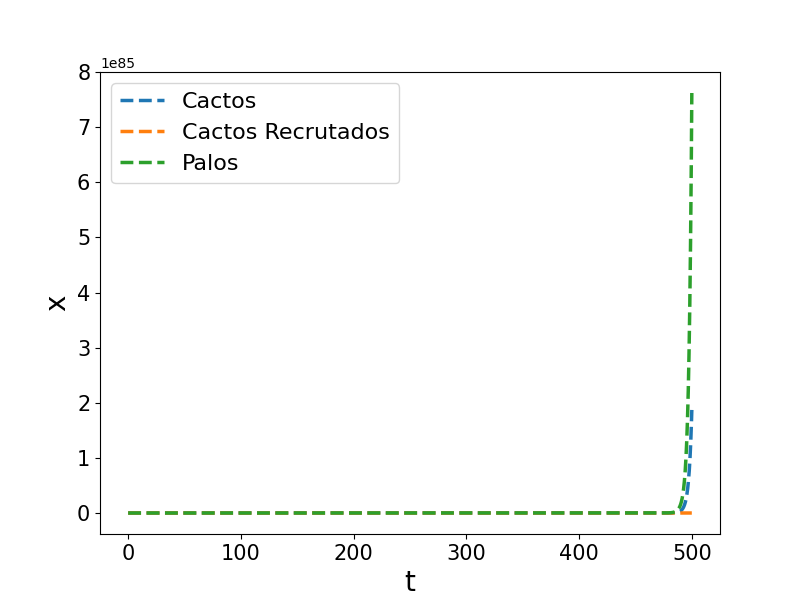
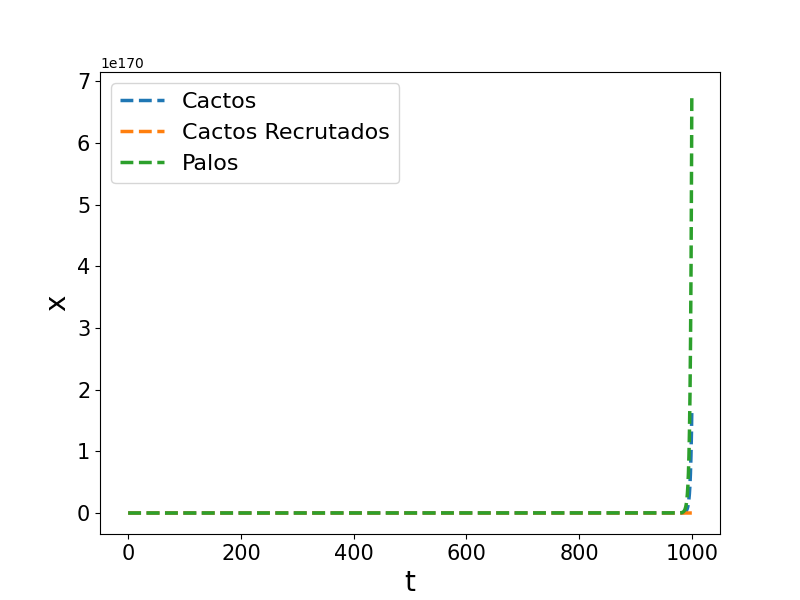
ponto de estabilizacao

diff --git a/modelo_cactos_palos_full_3.py b/modelo_cactos_palos_full_3.py
@@ -1,0 +1,66 @@
+from numpy import *
+from matplotlib.pyplot import *
+from scipy.integrate import odeint
+
+# parâmetros
+taxa_associacao = 0.5 #c
+r_cacto_adulto = 0.009 #r1
+taxa_facilitacao = 3 #f
+taxa_envelhecimento = 0.05 #alpha (escala de 10^-2)
+k_cacto_adulto = 0.003 #k1 )(inversamente proporcional)
+morte_cacto_adulto = 0.01  #d
+r_arbusto = 3 #r2
+k_arbusto = 10 #k2
+taxa_saciedade = 0.0 #h
+taxa_predacao = 0.2 #m
+
+# condições iniciais
+x_inicial_1 = 10
+x_inicial_2 = 1
+x_inicial_3 = 1
+
+# analise de pontos fixos
+
+# passos de tempo
+t = arange(0, 1000, 0.01)
+
+def modele_facilitacao_amensalismo(
+    x, t,
+    taxa_associacao, r_cacto_adulto, 
+    taxa_facilitacao, taxa_envelhecimento, 
+    k_cacto_adulto, morte_cacto_adulto, 
+    r_arbusto, k_arbusto, taxa_saciedade, 
+    taxa_predacao):
+  
+  return array([
+  
+  # Cactos Baby =
+  taxa_associacao * r_cacto_adulto * (taxa_facilitacao * x[2]) * x[1] + (1 - taxa_associacao) * r_cacto_adulto * x[1] - taxa_envelhecimento * x[0],
+  
+  # Cactos Adultos =
+  taxa_envelhecimento * x[0] - k_cacto_adulto * (x[1] ** 2) - morte_cacto_adulto * x[1],
+  
+  
+  # Arbustos =
+  r_arbusto * x[2] * (1 - (x[2] / k_arbusto)) - ((taxa_associacao * x[1] * x[2]) /(1 + taxa_saciedade * x[1])) * taxa_predacao
+  ])
+
+
+
+
+modelo_integrado = odeint(
+    modele_facilitacao_amensalismo, 
+    [x_inicial_1, x_inicial_2, x_inicial_3], 
+    t, 
+    (taxa_associacao, r_cacto_adulto, taxa_facilitacao, taxa_envelhecimento, k_cacto_adulto, morte_cacto_adulto, r_arbusto, k_arbusto, taxa_saciedade, taxa_predacao)
+    )
+
+# plotando a solução
+figure(figsize = (8, 6))
+tick_params(labelsize = 15)
+plot(t, modelo_integrado, linewidth = 2.5, linestyle = "--")
+xlabel("t", fontsize = 20) # definir rótulo do eixo x
+ylabel("x", fontsize = 20) # e do eixo y
+legend(["Cactos Recrutado", "Cactos Adulto", "Palos"], fontsize = 16)
+savefig("full_model_3.png")
+print(modelo_integrado)

diff --git a/modelo_cactos_facilitacao_2.py b/modelo_cactos_facilitacao_2.py
@@ -1,0 +1,54 @@
+# Este é um modelo de facilitação sem conversão e sem predadores.
+
+from numpy import *
+from matplotlib.pyplot import *
+from scipy.integrate import odeint
+
+# parâmetros
+r1 = 0.2
+r2 = 0.5
+k1 = 10
+k2 = 12
+x_inicial_1 = 10
+x_inicial_2 = 10
+x_inicial_3 = 10
+x_inicial_4 = 10
+nascimento = 0.2
+mortes_infantis = 0.1
+a = 10
+
+
+# passos de tempo
+t = arange(0, 100, 0.01)
+
+
+##################### Modelo Logístico de Cactos facilitados por Palos #########
+def logistico_cactos_facilitados(x, t, r1, k1, r2, k2):
+  return array([
+    
+    # Cacto Baby =
+    nascimento - mortes_infantis * x[0] - k1 * (x[1] ** 2),
+      
+    # Cactos Recrutados = 
+    # (babes vivos) + (babes vivos * taxa de facilitação * arbustos) * (babes recrutados * taxa de transição)
+    x[0] + (x[0] * a * x[3]) * (x[1] - k1 * (x[1] ** 2)),
+    
+    # Cactos Adultos =
+    # (recrutados convertidos) - (mortes_naturais) * (suporte)
+    r1 * x[1] * ( 1 - x[2] / k1),
+    
+    # arbustos
+    r2 * x[3] * ( 1 - x[3] / k2)
+ ])
+
+modelo_integrado = odeint(logistico_cactos_facilitados, [x_inicial_1, x_inicial_2, x_inicial_3, x_inicial_4], t, (r1, k1, r2, k2))
+
+############################### Plot Modelo Logístico ##########################
+# plotando a solução
+figure(figsize=(8, 6)) 
+tick_params(labelsize=15)
+plot(t, modelo_integrado, linewidth=2.5, linestyle="--")
+xlabel("t", fontsize=20) # definir rótulo do eixo x
+ylabel("x", fontsize=20) # e do eixo y
+legend(["Cactos baby", "Cactos Recrutados", "Cactos Adultos", "Arbustos"], fontsize=16)
+savefig("facilitacao_2.png")

diff --git a/modelo_cactos_palos_full_1.py b/modelo_cactos_palos_full_1.py
@@ -16,7 +16,7 @@ taxa_predacao = 0.1
 taxa_facilitacao = 1
 
 # passos de tempo
-t = arange(0, 500, 0.01)
+t = arange(0, 1000, 0.01)
 
 def modele_facilitacao_amensalismo(
   x, t, r1, k1, r2, k2, taxa_transicao,

diff --git a/modelo_cactos_facilitacao_1.py b/modelo_cactos_facilitacao_1.py
@@ -1,3 +1,5 @@
+# Este é um modelo de facilitação sem conversão e sem predadores.
+
 from numpy import *
 from matplotlib.pyplot import *
 from scipy.integrate import odeint
